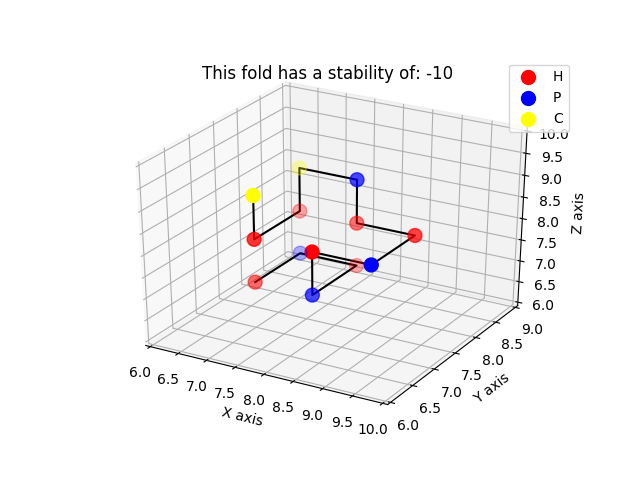
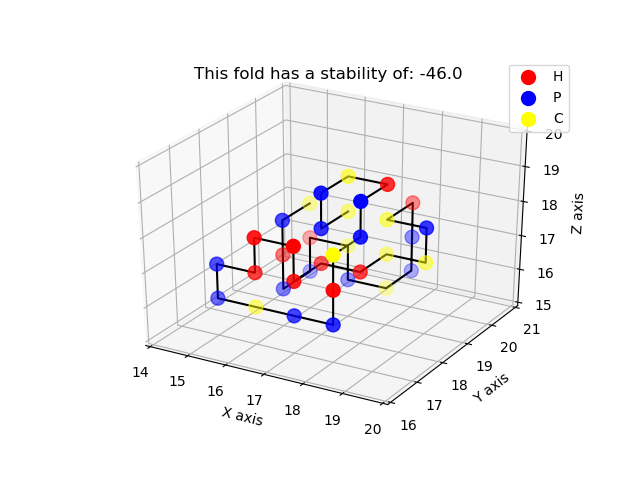
Hillclimber op random optie

diff --git a/code/algoritmes/only_hillclimber.py b/code/algoritmes/only_hillclimber.py
@@ -1,0 +1,222 @@
+from sys import argv
+from protein import Protein
+from random_option import Option
+from field import Field
+from path import Path
+import time
+import random
+from copy import deepcopy
+from math import ceil
+from itertools import product
+
+def main():
+    # makes user input into the protein class
+    protein = Protein(argv[1])
+
+    possible_changes = list(product(["forward", "left", "right", "up", "down"], repeat = 6))
+
+    option = Option(protein.length, protein.sequence)
+
+    best_fold = option.option
+    best_positions = option.positions
+    best_fold_points = fold_points(best_positions, protein.sequence) - protein.errorpoint[-1]
+
+    for i in range(3):
+        for index in range(len(protein.sequence) - 6):
+            print("Hillclimber attempt number " + str(i + 1) + "." + str(index + 1))
+        # Iterates over all possible changes and adds them to every poiny in best_fold
+
+            for change in possible_changes:
+                changed_fold = deepcopy(best_fold)
+                changed_fold[index] = change[0]
+                changed_fold[index + 1] = change[1]
+                changed_fold[index + 2] = change[2]
+                changed_fold[index + 3] = change[3]
+                changed_fold[index + 4] = change[4]
+                changed_fold[index + 5] = change[5]
+
+                # Determines aminopositions of changed fold
+                changed_positions = amino_positions(changed_fold)
+                if changed_positions:
+                    if (fold_points(changed_positions, protein.sequence) - protein.errorpoint[-1]) > best_fold_points:
+                        best_fold_points = fold_points(changed_positions, protein.sequence) - protein.errorpoint[-1]
+                        best_fold = changed_fold
+                        best_positions = changed_positions
+                        print("New best fold points: " + str(int(best_fold_points)))
+                        print("")
+                        print(protein.errorpoint[-1])
+
+
+    # prints best_fold_points and best_fold and current field
+    print(best_fold_points)
+    print(best_fold)
+    print(best_positions)
+
+    # renders visualisation
+    p = Path(protein.length, best_positions)
+    if best_positions[0][2]:
+        p.plot3Dfold(protein.sequence, best_fold_points)
+    else:
+        p.plotFold(protein.sequence, best_fold_points)
+
+# checks the points scored by the current fold
+def fold_points(positions, sequence):
+    points = 0
+    HHHH = []
+    CCCC = []
+    for position, acid in zip(positions, sequence):
+        if acid == "H":
+            HHHH.append(position)
+        elif acid == "C":
+            CCCC.append(position)
+    for position in HHHH:
+        if (position[0] - 1, position[1], position[2]) in (HHHH or CCCC):
+            points += 1
+        if (position[0], position[1] - 1, position[2]) in (HHHH or CCCC):
+            points += 1
+        if (position[0], position[1] + 1, position[2]) in (HHHH or CCCC):
+            points += 1
+        if (position[0] + 1, position[1], position[2]) in (HHHH or CCCC):
+            points += 1
+        if (position[0], position[1], position[2] + 1) in (HHHH or CCCC):
+            points += 1
+        if (position[0], position[1], position[2] - 1) in (HHHH or CCCC):
+            points += 1
+    for position in CCCC:
+        if (position[0] - 1, position[1], position[2]) in CCCC:
+            points += 5
+        elif (position[0] - 1, position[1], position[2]) in HHHH:
+            points += 2
+        if (position[0], position[1] - 1, position[2]) in CCCC:
+            points += 5
+        elif (position[0], position[1] - 1, position[2]) in HHHH:
+            points += 2
+        if (position[0], position[1] + 1, position[2]) in CCCC:
+            points += 2
+        elif (position[0], position[1] + 1, position[2]) in HHHH:
+            points += 2
+        if (position[0] + 1, position[1], position[2]) in CCCC:
+            points += 5
+        elif (position[0] + 1, position[1], position[2]) in HHHH:
+            points += 2
+        if (position[0], position[1], position[2] + 1) in CCCC:
+            points += 5
+        elif (position[0], position[1], position[2] + 1) in HHHH:
+            points += 2
+        if (position[0], position[1], position[2] - 1) in CCCC:
+            points += 5
+        elif (position[0], position[1], position[2] - 1) in HHHH:
+            points += 2
+    return points / 2
+
+def amino_positions(option):
+    # initialises positions list and starting coordinates of protein
+    positions = []
+    begin = int(ceil(len(option) / 2))
+
+    # initialises x-, y-coordinates and current direction
+    x, y, z = begin, begin + 1, begin
+    direction = "x_min"
+
+    # loops over current option and appends aminoacid coordinates
+    # if there are no bumps
+    for move in option:
+        if direction == "x_plus":
+            if move == "right":
+                y = y - 1
+                direction = "y_min"
+            elif move == "left":
+                y = y + 1
+                direction = "y_plus"
+            elif move == "up":
+                z = z + 1
+                direction = "z_plus"
+            elif move == "down":
+                z = z - 1
+                direction = "z_min"
+            elif move == "forward":
+                x = x + 1
+        elif direction == "y_plus":
+            if move == "right":
+                x = x + 1
+                direction = "x_plus"
+            elif move == "left":
+                x = x - 1
+                direction = "x_min"
+            elif move == "up":
+                z = z + 1
+                direction = "z_plus"
+            elif move == "down":
+                z = z - 1
+                direction = "z_min"
+            elif move == "forward":
+                y = y + 1
+        elif direction == "y_min":
+            if move == "right":
+                x = x - 1
+                direction = "x_min"
+            elif move == "left":
+                x = x + 1
+                direction = "x_plus"
+            elif move == "up":
+                z = z + 1
+                direction = "z_plus"
+            elif move == "down":
+                z = z - 1
+                direction = "z_min"
+            elif move == "forward":
+                y = y - 1
+        elif direction == "x_min":
+            if move == "right":
+                y = y + 1
+                direction = "y_plus"
+            elif move == "left":
+                y = y - 1
+                direction = "y_min"
+            elif move == "up":
+                z = z + 1
+                direction = "z_plus"
+            elif move == "down":
+                z = z - 1
+                direction = "z_min"
+            elif move == "forward":
+                x = x - 1
+        elif direction == "z_plus":
+            if move == "right":
+                x = x + 1
+                direction = "x_plus"
+            elif move == "left":
+                x = x - 1
+                direction = "x_min"
+            elif move == "up":
+                y = y + 1
+                direction = "y_plus"
+            elif move == "down":
+                y = y - 1
+                direction = "y_min"
+            elif move == "forward":
+                z = z + 1
+        elif direction == "z_min":
+            if move == "right":
+                x = x + 1
+                direction = "x_plus"
+            elif move == "left":
+                x = x - 1
+                direction = "x_min"
+            elif move == "up":
+                y = y + 1
+                direction = "y_plus"
+            elif move == "down":
+                y = y - 1
+                direction = "y_min"
+            elif move == "forward":
+                z = z - 1
+        # only appends coordinates if there are no bumps
+        if tuple((x, y, z)) in positions:
+            return False
+        positions.append(tuple((x, y, z)))
+    return positions
+
+
+if __name__ == '__main__':
+    main()
